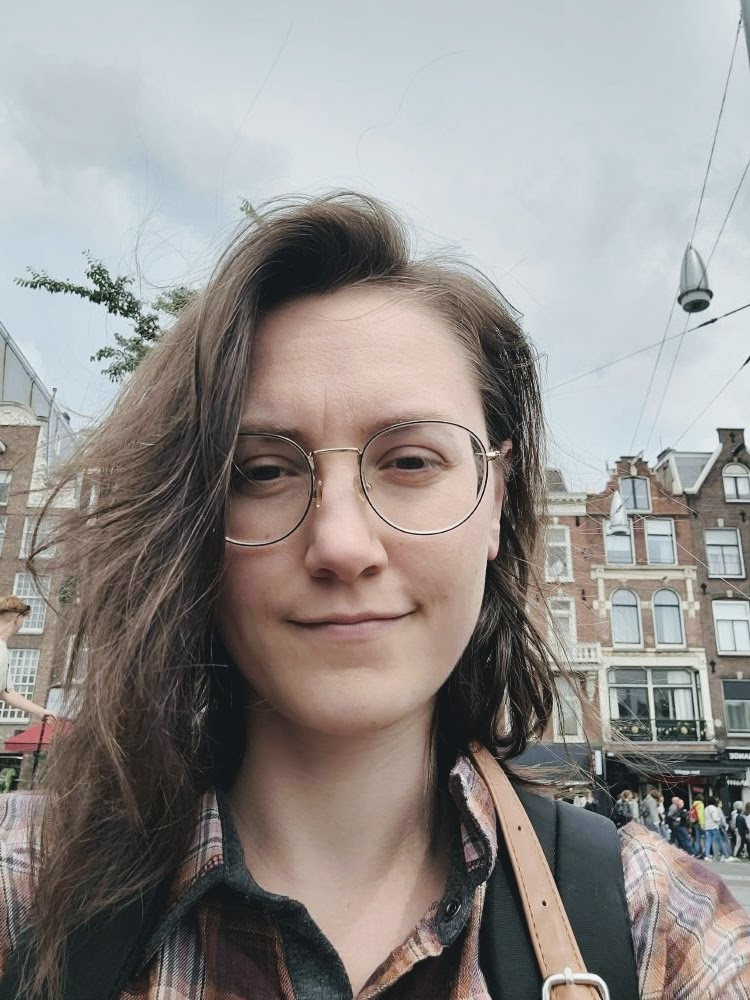
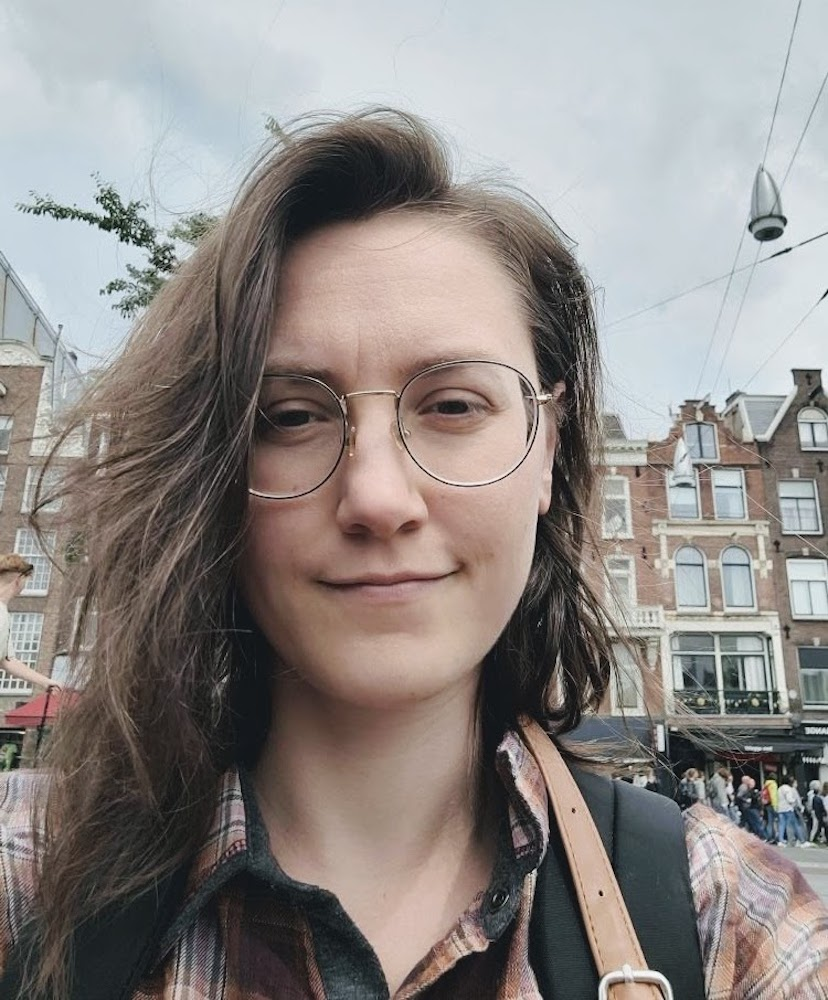
modified img mobile v

diff --git a/assets/style.css b/assets/style.css
@@ -435,10 +435,10 @@ footer ul {
             "temp3 temp4"
             "temp5 temp6"
             "temp7 temp8";
+        max-height: 100%;
     }
 
     .grid-photo {
-        height: 100%;
         object-fit: cover;
         mix-blend-mode: normal;
         filter: grayscale(80%);
